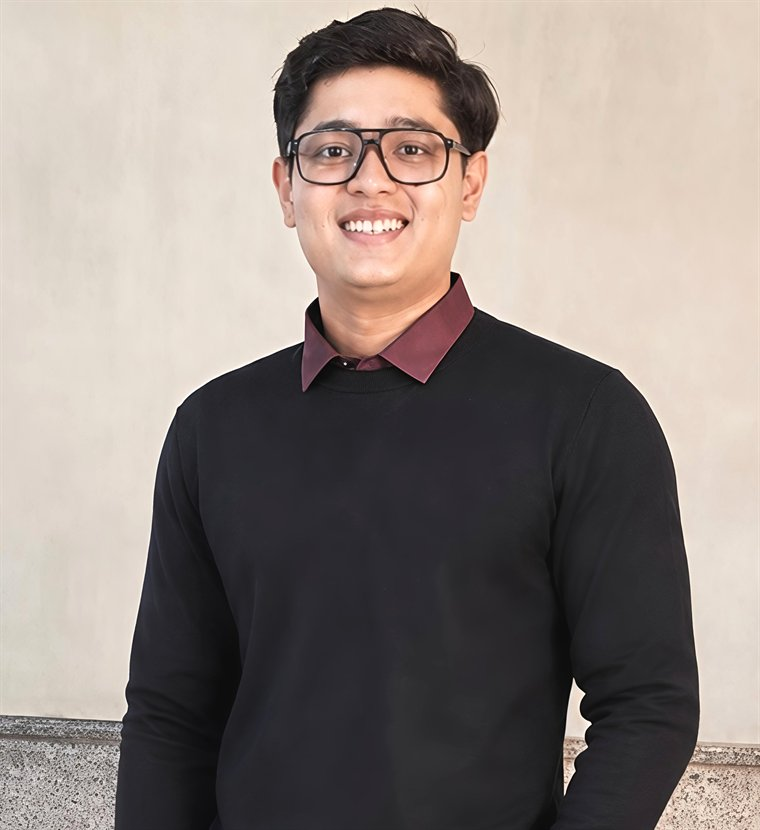
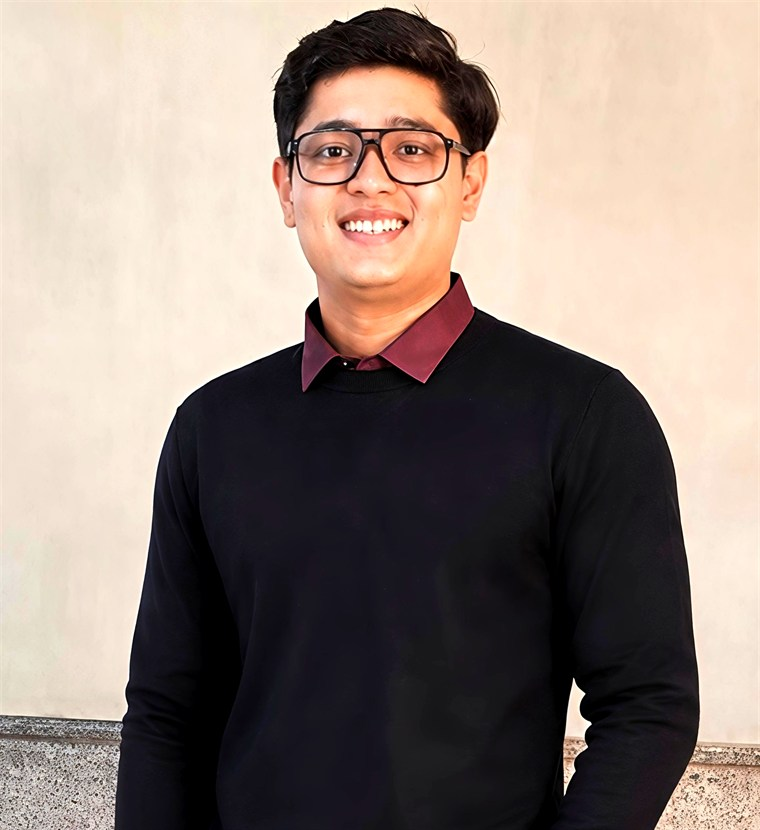
Vivid regrade on the portrait, square top-anchored crop
The photo read washed out because a plum mix-blend-color layer was draining its saturation (which also made the lips look dark) on top of a brightness lift that had raised the blacks. Regraded with a saturation and contrast matrix and cut the colour-blend layer, leaving only a light soft-light wash so skin tones keep their own colour. The frame is now square and anchored to the top with the parallax overscale removed, so his hair stays whole and the crop comes off the bottom instead.

diff --git a/src/components/sections/about.tsx b/src/components/sections/about.tsx
@@ -11,10 +11,6 @@ export default function About() {
     target: ref,
     offset: ["start end", "end start"],
   });
-  // gentle drift only — the portrait is near-square, so a heavy parallax
-  // overscale would crop his shoulders out of the frame
-  const imgY = useTransform(scrollYProgress, [0, 1], ["-3%", "3%"]);
-  const imgScale = useTransform(scrollYProgress, [0, 0.5, 1], [1.02, 1, 1.02]);
   const tagY = useTransform(scrollYProgress, [0, 1], ["20%", "-20%"]);
 
   return (
@@ -27,11 +23,11 @@ export default function About() {
       <div className="relative mx-auto grid max-w-[1400px] gap-12 px-6 md:grid-cols-12 md:gap-16 md:px-10">
         {/* photo */}
         <div className="md:col-span-5 md:col-start-1">
-          <div className="relative aspect-[9/10] w-full overflow-hidden rounded-sm bg-cream-dim shadow-[0_34px_90px_-36px_rgba(110,39,70,0.2)]">
-            <motion.div
-              style={{ y: imgY, scale: imgScale }}
-              className="absolute inset-[-3%]"
-            >
+          <div className="relative aspect-square w-full overflow-hidden rounded-sm bg-cream-dim shadow-[0_34px_90px_-36px_rgba(110,39,70,0.2)]">
+            {/* no parallax overscale here — it was clipping the top of his
+                hair. A square frame anchored to the top keeps the head whole
+                and takes the crop off the bottom instead. */}
+            <div className="absolute inset-0">
               <Image
                 src="/rishi.jpg"
                 alt="Rishi Shah"
@@ -39,13 +35,12 @@ export default function About() {
                 priority
                 quality={92}
                 sizes="(min-width: 768px) 40vw, 90vw"
-                className="object-cover object-center"
+                className="object-cover object-top"
               />
-            </motion.div>
-            {/* subtle duotone — plum settles into the shadows, pale rose into
-                the highlights; kept light so it reads as a grade, not a filter */}
-            <div className="absolute inset-0 bg-gradient-to-t from-terracotta/35 via-transparent to-peach/25 mix-blend-soft-light" />
-            <div className="absolute inset-0 bg-terracotta/10 mix-blend-color" />
+            </div>
+            {/* whisper of plum in the shadows — light enough to stay a grade,
+                not a filter, so skin tones keep their colour */}
+            <div className="absolute inset-0 bg-gradient-to-t from-terracotta/18 via-transparent to-peach/10 mix-blend-soft-light" />
             <div className="absolute inset-0 ring-1 ring-inset ring-ink/10" />
 
             {/* corner caption */}
